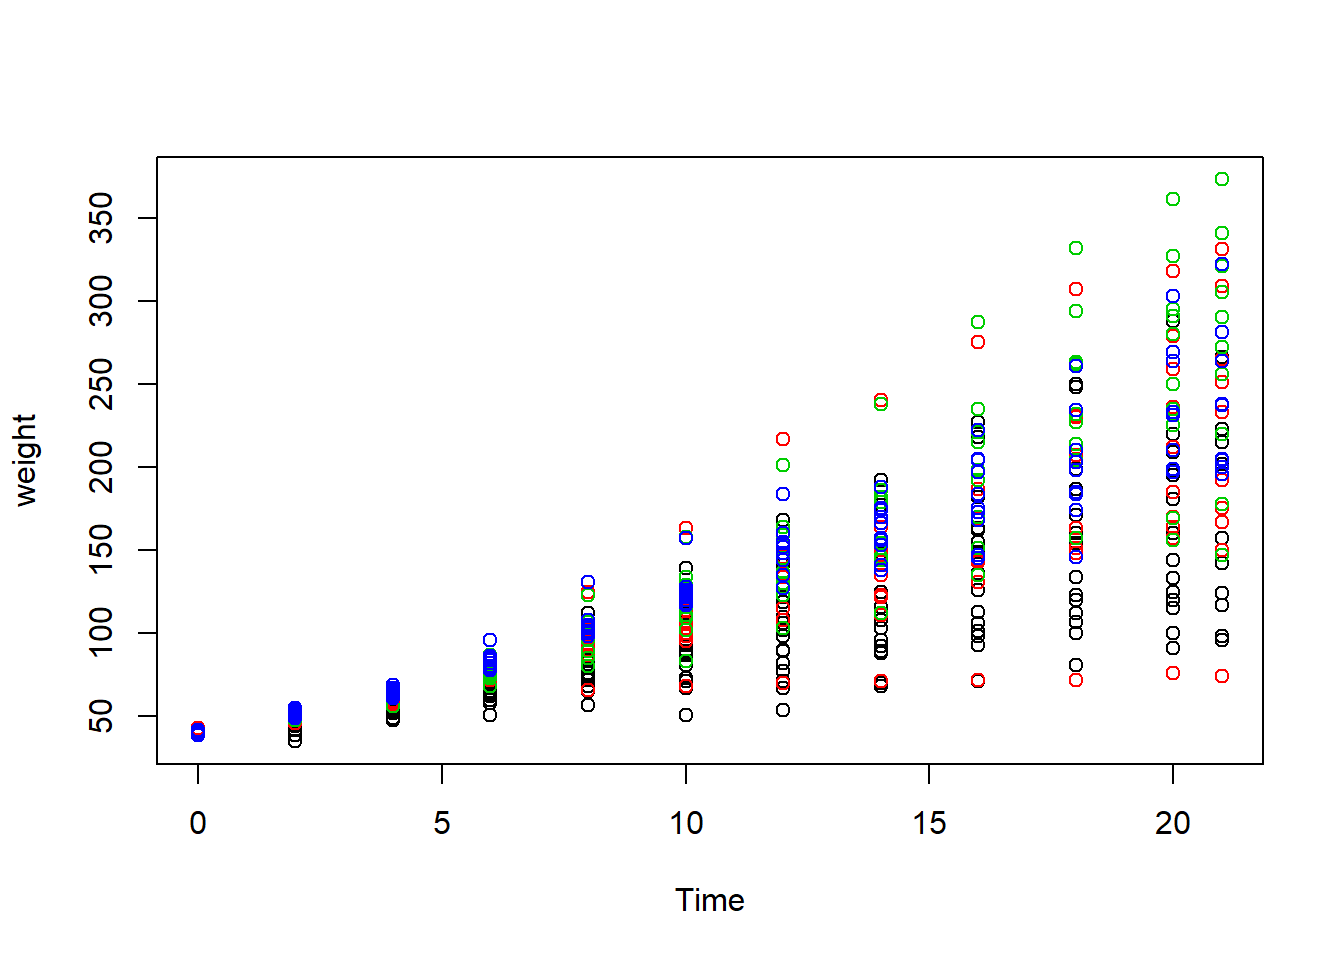
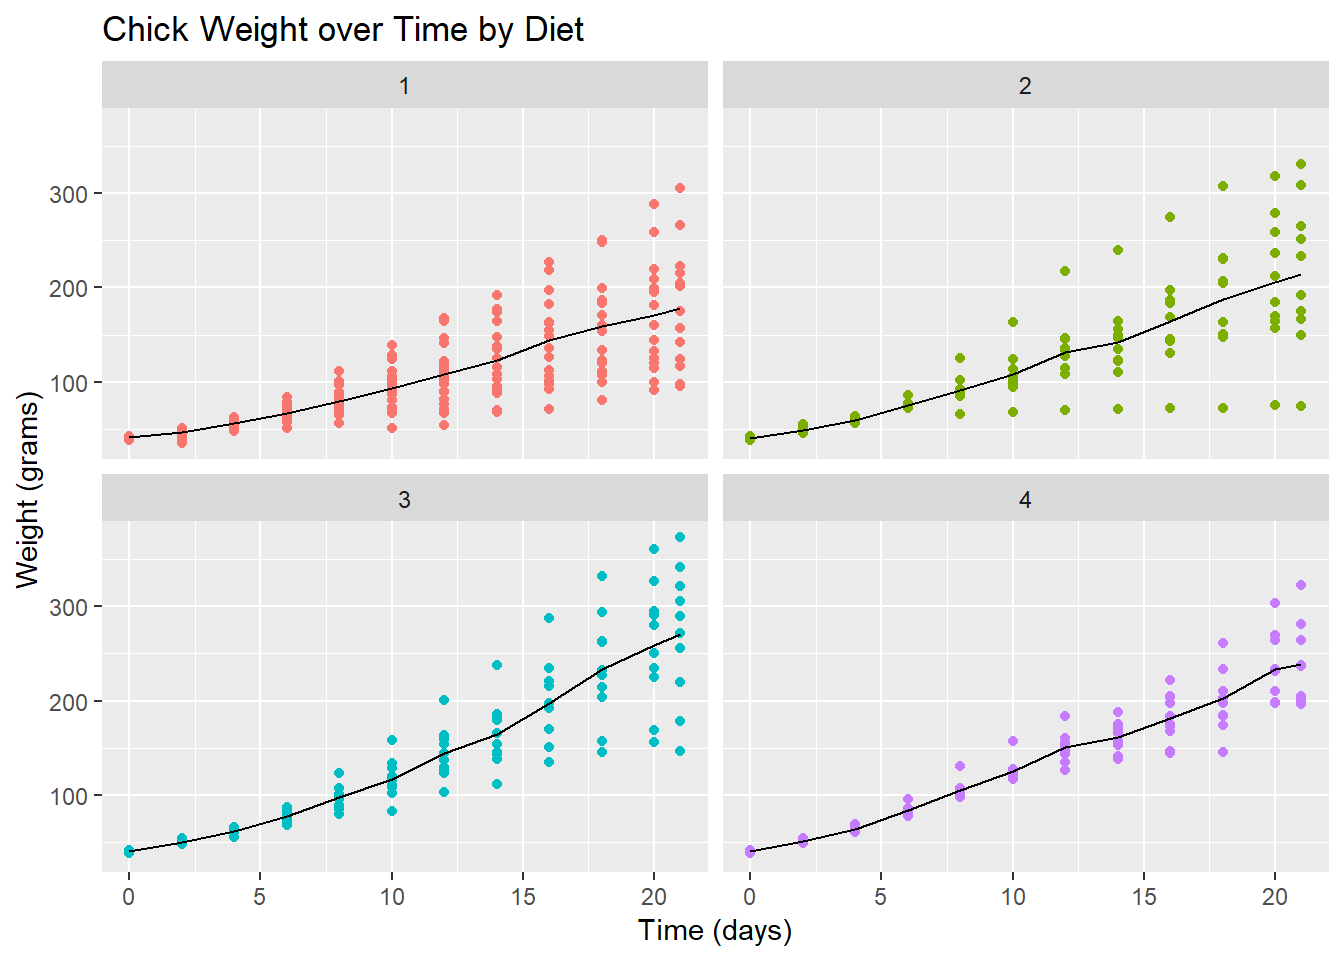
Added READ-ME file and changed ChickWeight plot

diff --git a/Learning_about_Github.html b/Learning_about_Github.html
@@ -396,8 +396,24 @@ $(document).ready(function () {
 </div>
 <div id="chick-weight-plot" class="section level1">
 <h1>Chick Weight Plot</h1>
-<pre class="r"><code>with(ChickWeight, plot(Time, weight, col=Diet))</code></pre>
[1 lines of base64/hex data omitted]
+<pre class="r"><code>library(ggplot2)
+library(dplyr)</code></pre>
+<pre><code>## 
+## Attaching package: &#39;dplyr&#39;</code></pre>
+<pre><code>## The following objects are masked from &#39;package:stats&#39;:
+## 
+##     filter, lag</code></pre>
+<pre><code>## The following objects are masked from &#39;package:base&#39;:
+## 
+##     intersect, setdiff, setequal, union</code></pre>
+<pre class="r"><code>ChickWeight %&gt;%
+    ggplot(aes(Time, weight, colour=Diet)) + geom_point() +
+    facet_wrap(~Diet) + 
+    stat_summary(fun.y = &quot;mean&quot;, geom = &quot;line&quot;, colour = &quot;black&quot;) +
+    theme(legend.position = &quot;none&quot;) +
+    ggtitle(&quot;Chick Weight over Time by Diet&quot;) +
+    xlab(&quot;Time (days)&quot;) + ylab(&quot;Weight (grams)&quot;)</code></pre>
[1 lines of base64/hex data omitted]
 </div>
 
 

diff --git a/READ-ME.md b/READ-ME.md
@@ -1,0 +1,12 @@
+# GitHub R Demo
+
+## Chick Weight Data
+
+The `ChickWeight` are analysed as follows:
+    
+    + Summary statistics for weight  by Diet and time
+    + Box whisker plots by Diet over Time for weight
+
+## Further information
+
+Please use https://ilustat.com/shared/Getting-Started-in-R.pdf
